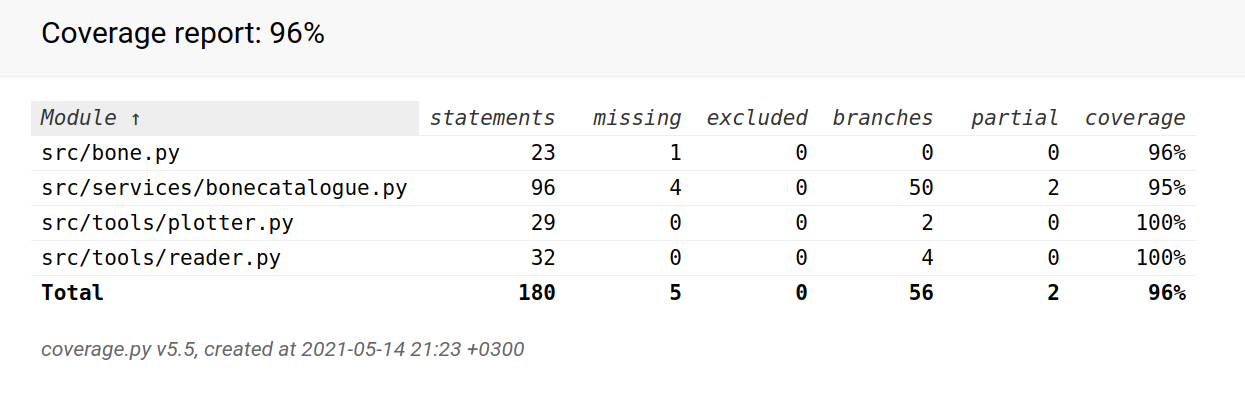
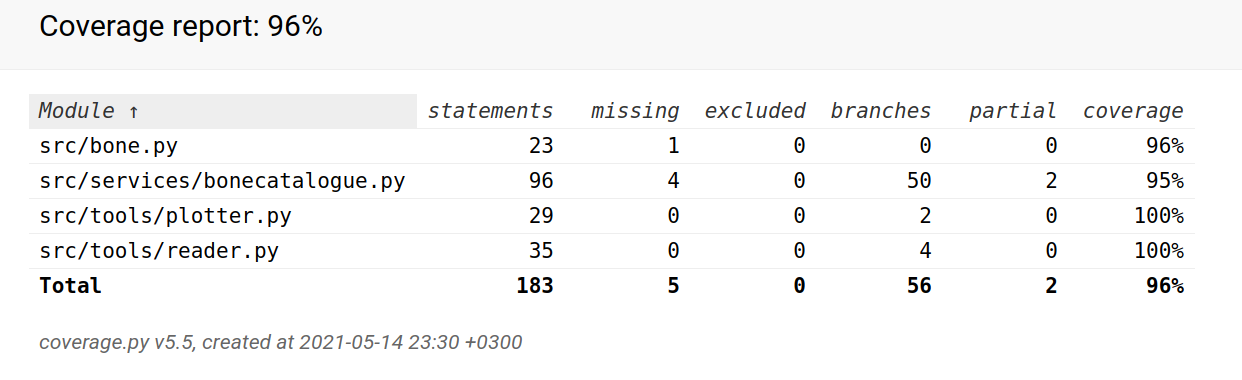
lisätty poikkeuksen tuottaminen ja sille testi

diff --git a/src/tools/reader.py b/src/tools/reader.py
@@ -41,6 +41,6 @@ class FileReader():
 
                     bones.append(Bone(nisp, weight, classis, species, ossum, element, side, fragment, comment, sizeclass, part, burndegree, iuv, cut, findnr, x, y, context, layer))
         except FileNotFoundError:
-            print("The specified file was not found. Please check that the file is located in the services directory and its name spelled correctly.")
+            raise FileNotFoundError("The specified file was not found. Please check that the file is located in the services directory and its name spelled correctly.")
         
         return bones

diff --git a/src/tests/bonecatalogue_test.py b/src/tests/bonecatalogue_test.py
@@ -8,6 +8,10 @@ class TestBonecatalogue(unittest.TestCase):
     def setUp(self):
         self.catalogue = Bonecatalogue()
         self.catalogue.read_file(TESTDATA)
+
+    def test_read_error(self):
+        self.assertRaises(FileNotFoundError, lambda: self.catalogue.read_file("gobbeldygook"))
+            
     
     def test_count_species(self):
         result = self.catalogue.count_species()

diff --git a/dokumentaatio/tuntikirjanpito.md b/dokumentaatio/tuntikirjanpito.md
@@ -26,4 +26,5 @@ päivä | aika | mitä tehty
 10.5. | 4    | dokumentaation parantelua
 14.5. | 10   | loput testit, koodin parantelua, testausdokumentti valmiiksi
 14.5. | 1    | viimeistelyä ja korjailua
-YHT.   61.5 tuntia
+14.5. | 1    | poikkeuksen tuottaminen ja testi sille
+YHT.   62.5 tuntia
